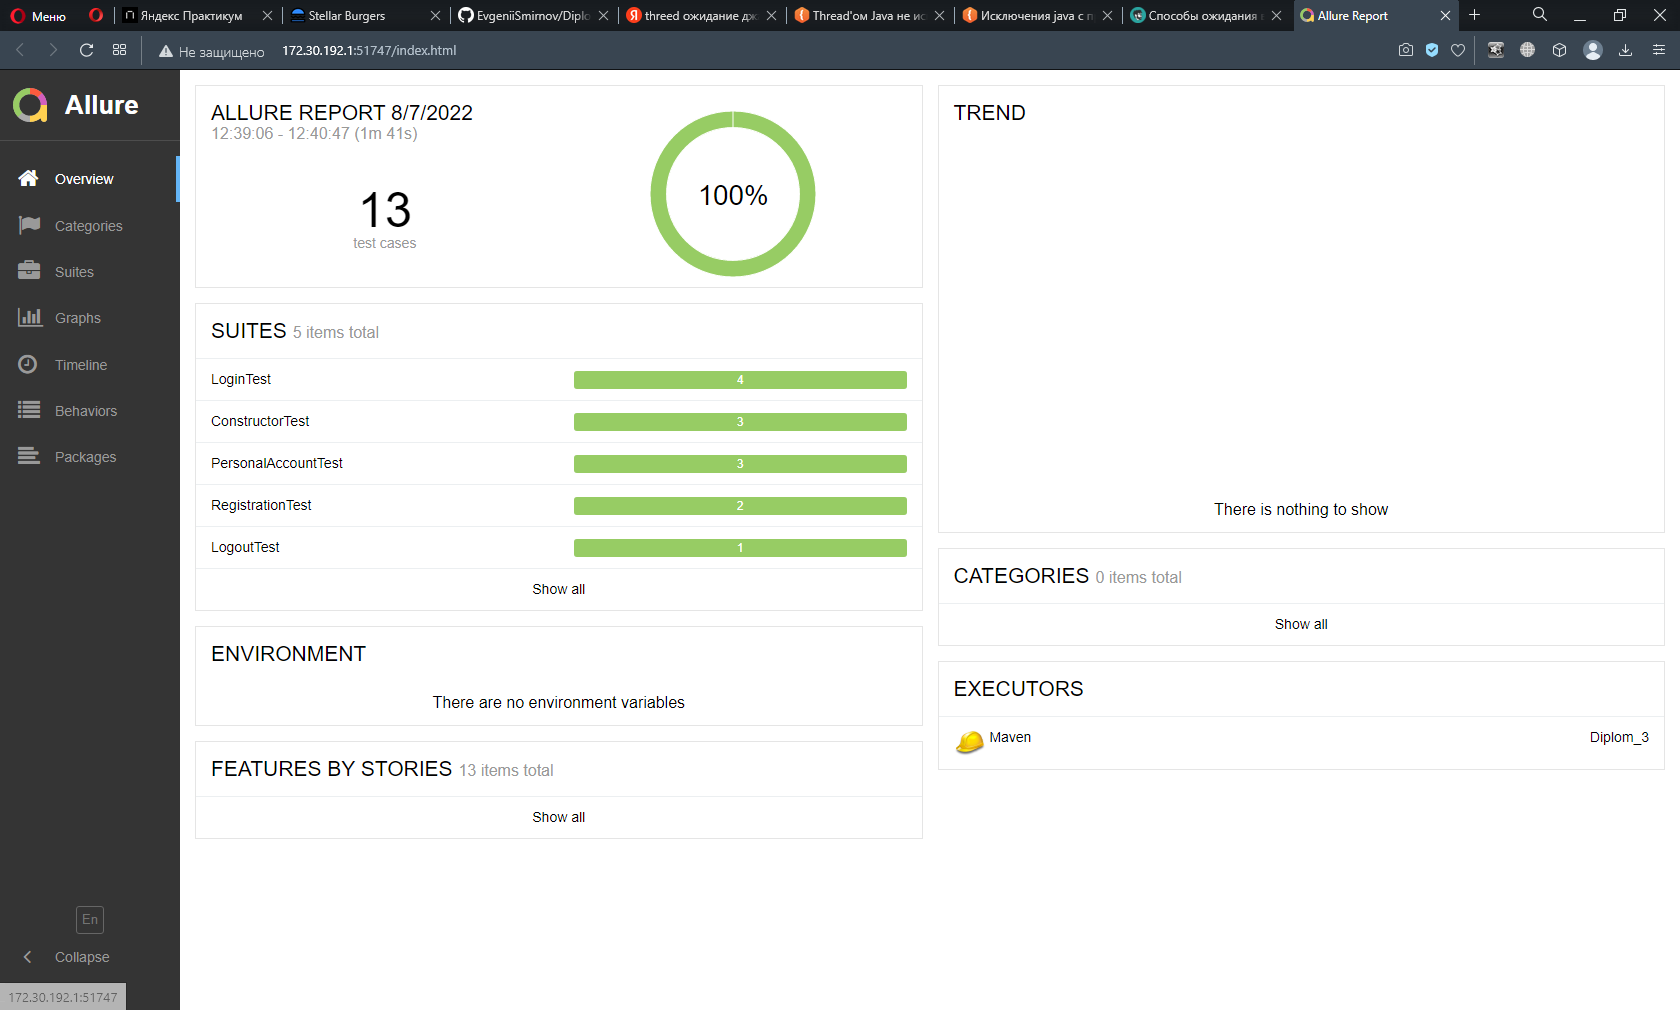
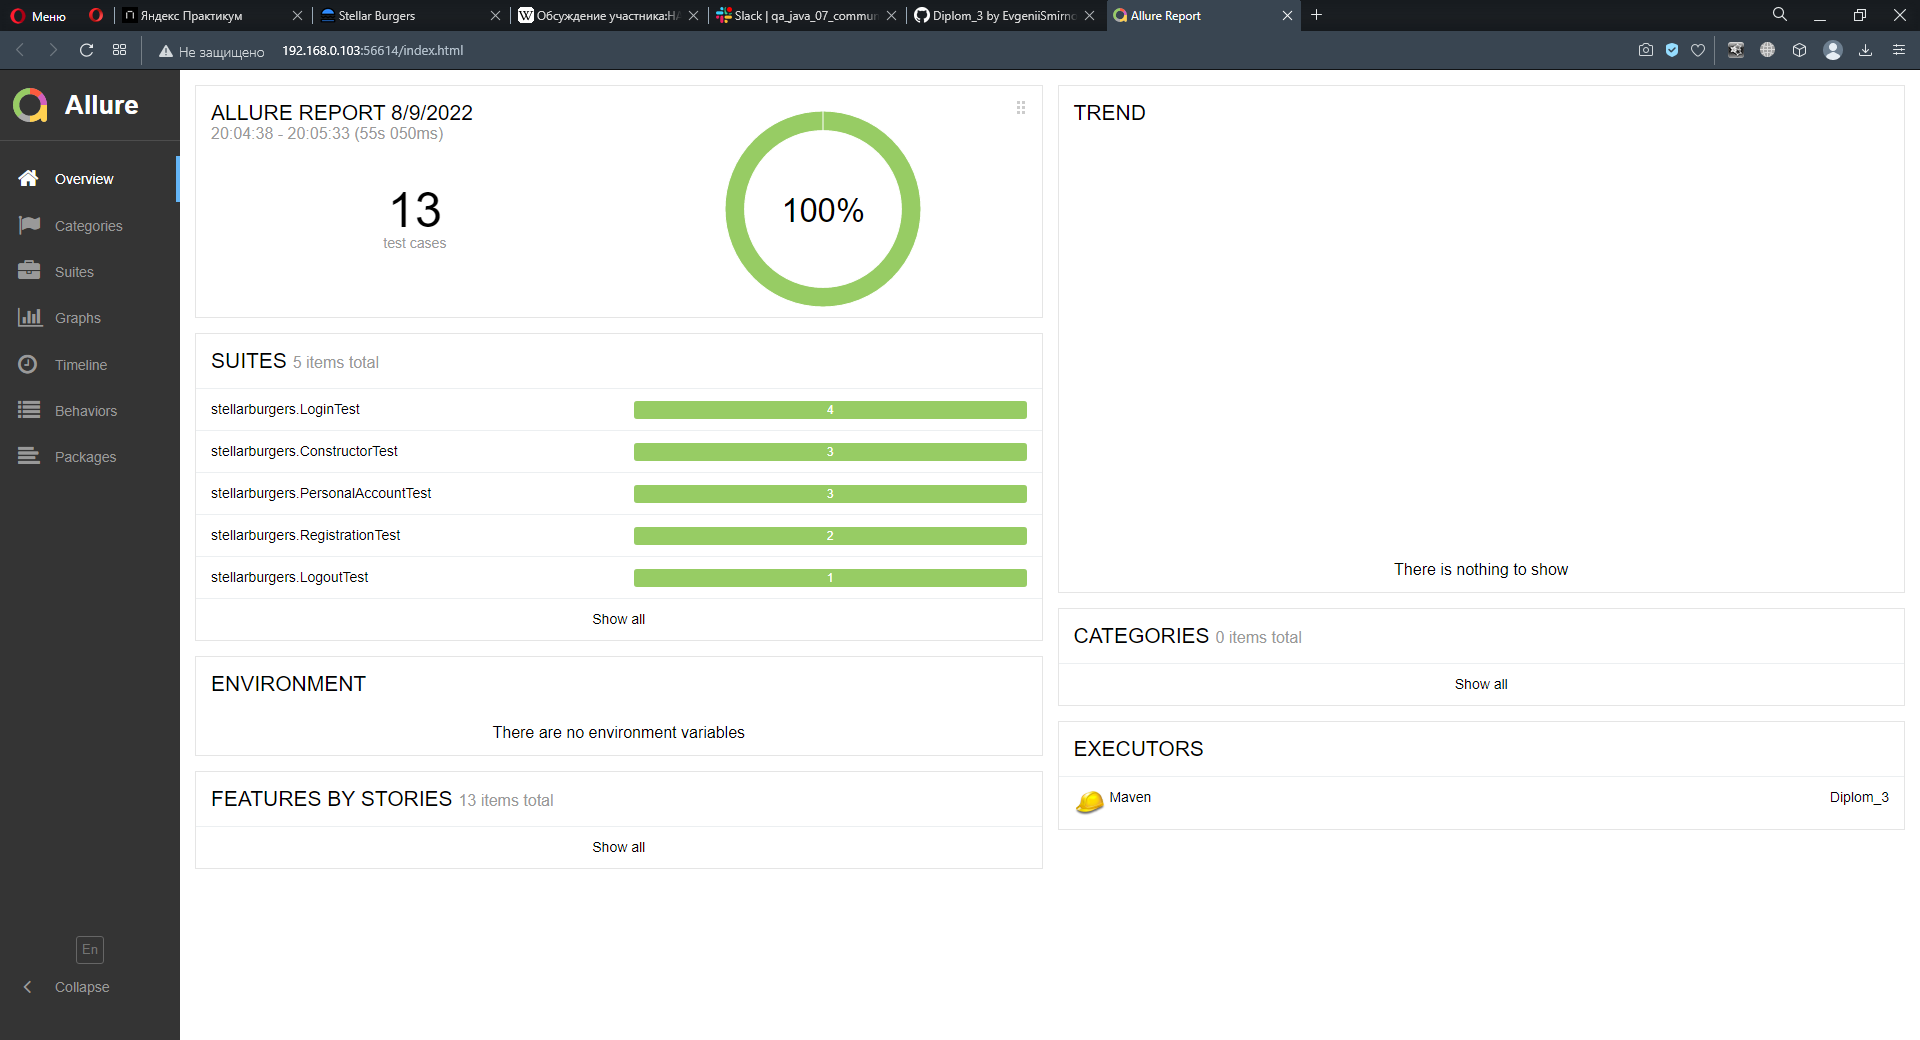
fix

diff --git a/src/main/java/stellarburgers/MainPage.java b/src/main/java/stellarburgers/MainPage.java
@@ -14,34 +14,45 @@ public class MainPage extends HeaderPage {
 
     // кнопка 'Войти в аккаунт'
     @FindBy(how = How.XPATH, using = ".//button[text()='Войти в аккаунт']")
-    public static SelenideElement accountButton;
+    private SelenideElement accountButton;
+
+    // кнопка 'Оформить заказ'
+    @FindBy(how = How.XPATH, using = ".//button[text()='Оформить заказ']")
+    private SelenideElement makeOrderButton;
+
+    // текст в разделе 'Булки'
+    @FindBy(how = How.XPATH, using = ".//span[text()='Булки']")
+    private SelenideElement bunText;
+
+    // раздел 'Булки'
+    @FindBy(how = How.XPATH, using = ".//span[text()='Булки']/..")
+    private SelenideElement bunsTab;
+
+    // текст в разделе 'Соусы'
+    @FindBy(how = How.XPATH, using = ".//span[text()='Соусы']")
+    private SelenideElement sauceText;
+
+    // раздел 'Соусы'
+    @FindBy(how = How.XPATH, using = ".//span[text()='Соусы']/..")
+    private SelenideElement sauceTab;
+
+    // текст в разделе 'Начинки'
+    @FindBy(how = How.XPATH, using = ".//span[text()='Начинки']")
+    private SelenideElement fillingsText;
+
+    // раздел 'Начинки'
+    @FindBy(how = How.XPATH, using = ".//span[text()='Начинки']/..")
+    private SelenideElement fillingsTab;
 
     @Step("Кликаем кнопку 'Войти в аккаунт'")
     public void clickAccountButton() {
         accountButton.click();
     }
 
-    // кнопка 'Оформить заказ'
-    @FindBy(how = How.XPATH, using = ".//button[text()='Оформить заказ']")
-    public static SelenideElement makeOrderButton;
-
     @Step("Проверяем видимость кнопки 'Оформить заказ'")
     public boolean makeOrderButtonCheck() {
         return makeOrderButton.shouldBe(visible).isDisplayed();
     }
-
-    @Step("Кликаем кнопку 'Оформить заказ'")
-    public void clickMakeOrderButton() {
-        makeOrderButton.click();
-    }
-
-    // текст в разделе 'Булки'
-    @FindBy(how = How.XPATH, using = ".//span[text()='Булки']")
-    public static SelenideElement bunText;
-
-    // раздел 'Булки'
-    @FindBy(how = How.XPATH, using = ".//span[text()='Булки']/..")
-    public static SelenideElement bunsTab;
 
     @Step("Кликаем на раздел 'Булки'")
     public void clickBunsTab() {
@@ -53,14 +64,6 @@ public class MainPage extends HeaderPage {
         bunsTab.shouldHave(cssClass("tab_tab_type_current__2BEPc"));
     }
 
-    // текст в разделе 'Соусы'
-    @FindBy(how = How.XPATH, using = ".//span[text()='Соусы']")
-    public static SelenideElement sauceText;
-
-    // раздел 'Соусы'
-    @FindBy(how = How.XPATH, using = ".//span[text()='Соусы']/..")
-    public static SelenideElement sauceTab;
-
     @Step("Кликаем на раздел 'Соусы'")
     public void clickSauceTab() {
         sauceText.click();
@@ -70,14 +73,6 @@ public class MainPage extends HeaderPage {
     public void sauceTabSelectedCheck() {
         sauceTab.shouldHave(cssClass("tab_tab_type_current__2BEPc"));
     }
-
-    // текст в разделе 'Начинки'
-    @FindBy(how = How.XPATH, using = ".//span[text()='Начинки']")
-    public static SelenideElement fillingsText;
-
-    // раздел 'Начинки'
-    @FindBy(how = How.XPATH, using = ".//span[text()='Начинки']/..")
-    public static SelenideElement fillingsTab;
 
     @Step("Кликаем на раздел 'Начинки'")
     public void clickFillingsTab() {

diff --git a/src/main/java/stellarburgers/LoginPage.java b/src/main/java/stellarburgers/LoginPage.java
@@ -11,15 +11,23 @@ public class LoginPage extends HeaderPage {
 
     // поле ввода email
     @FindBy(how = How.XPATH, using = ".//input[@name='name']")
-    public static SelenideElement fieldEmail;
+    private SelenideElement fieldEmail;
 
     // поле ввода пароля
     @FindBy(how = How.XPATH, using = ".//input[@name='Пароль']")
-    public static SelenideElement fieldPassword;
+    private SelenideElement fieldPassword;
 
     // кнопка 'Войти'
     @FindBy(how = How.XPATH, using = ".//button[text()='Войти']")
-    public static SelenideElement enterButton;
+    private SelenideElement enterButton;
+
+    // ссылка 'Зарегистрироваться'
+    @FindBy(how = How.XPATH, using = ".//a[text()='Зарегистрироваться']")
+    private SelenideElement registrationLink;
+
+    // ссылка 'Восстановить пароль'
+    @FindBy(how = How.XPATH, using = ".//a[text()='Восстановить пароль']")
+    private SelenideElement passRecoveryLink;
 
     @Step("Проверяем видимость кнопки 'Войти' на странице авторизации")
     public boolean enterButtonCheck() {
@@ -33,18 +41,10 @@ public class LoginPage extends HeaderPage {
         enterButton.click();
     }
 
-    // ссылка 'Зарегистрироваться'
-    @FindBy(how = How.XPATH, using = ".//a[text()='Зарегистрироваться']")
-    public static SelenideElement registrationLink;
-
     @Step("Кликаем ссылку 'Зарегистрироваться' на странице авторизации")
     public void clickRegistrationLink() {
         registrationLink.click();
     }
-
-    // ссылка 'Восстановить пароль'
-    @FindBy(how = How.XPATH, using = ".//a[text()='Восстановить пароль']")
-    public static SelenideElement passRecoveryLink;
 
     @Step("Кликаем ссылку 'Восстановить пароль' на странице авторизации")
     public void clickPassRecoveryLink() {

diff --git a/src/main/java/stellarburgers/RegisterPage.java b/src/main/java/stellarburgers/RegisterPage.java
@@ -10,15 +10,23 @@ public class RegisterPage extends HeaderPage {
 
     // поля Имя и email
     @FindBy(how = How.XPATH, using = ".//input[@name='name']")
-    public static ElementsCollection nameAndEmailFields;
+    private ElementsCollection nameAndEmailFields;
 
     // поле ввода пароля
     @FindBy(how = How.XPATH, using = ".//input[@name='Пароль']")
-    public static SelenideElement fieldPassword;
+    private SelenideElement fieldPassword;
 
     // кнопка 'Зарегистрироваться'
     @FindBy(how = How.XPATH, using = ".//button[text()='Зарегистрироваться']")
-    public static SelenideElement registrationButton;
+    private SelenideElement registrationButton;
+
+    // уведомление 'Некорректный пароль'
+    @FindBy(how = How.XPATH, using = ".//p[text()='Некорректный пароль']")
+    private SelenideElement errorPasswordNote;
+
+    // кнопка 'Войти'
+    @FindBy(how = How.XPATH, using = ".//a[text()='Войти']")
+    private SelenideElement loginButton;
 
     @Step("Регистрация пользователя")
     public void registration(String name, String email, String password) {
@@ -28,18 +36,10 @@ public class RegisterPage extends HeaderPage {
         registrationButton.click();
     }
 
-    // уведомление 'Некорректный пароль'
-    @FindBy(how = How.XPATH, using = ".//p[text()='Некорректный пароль']")
-    public static SelenideElement errorPasswordNote;
-
     @Step("Проверяем уведомление 'Некорректный пароль'")
     public boolean badPassNoteCheck() {
         return errorPasswordNote.isDisplayed();
     }
-
-    // кнопка 'Войти'
-    @FindBy(how = How.XPATH, using = ".//a[text()='Войти']")
-    public static SelenideElement loginButton;
 
     @Step("Кликаем кнопку 'Войти' на странице регистрации")
     public void clickLoginButton() {

diff --git a/src/test/java/stellarburgers/ConstructorTest.java b/src/test/java/stellarburgers/ConstructorTest.java
@@ -1,8 +1,9 @@
+package stellarburgers;
+
 import com.codeborne.selenide.Selenide;
 import jdk.jfr.Description;
 import org.junit.After;
 import org.junit.Test;
-import stellarburgers.MainPage;
 
 import static com.codeborne.selenide.Selenide.open;
 
@@ -17,31 +18,25 @@ public class ConstructorTest {
 
     @Test
     @Description("Позитивная проверка. Проверяем переход к разделу 'Булки'")
-    public void activationBunsTabTest() throws InterruptedException {
+    public void activationBunsTabTest() {
         mainPage.clickFillingsTab();
-        Thread.sleep(3000);
         mainPage.clickBunsTab();
-        Thread.sleep(3000);
         mainPage.bunsTabSelectedCheck();
     }
 
     @Test
     @Description("Позитивная проверка. Проверяем переход к разделу 'Соусы'")
-    public void activationSouseTabTest() throws InterruptedException {
+    public void activationSouseTabTest() {
         mainPage.clickFillingsTab();
-        Thread.sleep(3000);
         mainPage.clickSauceTab();
-        Thread.sleep(3000);
         mainPage.sauceTabSelectedCheck();
     }
 
     @Test
     @Description("Позитивная проверка. Проверяем переход к разделу 'Соусы'")
-    public void activationFillingsTabTest() throws InterruptedException {
+    public void activationFillingsTabTest() {
         mainPage.clickSauceTab();
-        Thread.sleep(3000);
         mainPage.clickFillingsTab();
-        Thread.sleep(3000);
         mainPage.fillingsTabSelectedCheck();
     }
 }

diff --git a/src/main/java/stellarburgers/HeaderPage.java b/src/main/java/stellarburgers/HeaderPage.java
@@ -9,25 +9,25 @@ public class HeaderPage {
 
     // кнопка хэдера 'Личный кабинет'
     @FindBy(how = How.XPATH, using = ".//a[@href='/account']")
-    public static SelenideElement accountButtonHeader;
+    private SelenideElement accountButtonHeader;
+
+    // кнопка 'Конструктор'
+    @FindBy(how = How.XPATH, using = ".//p[text()='Конструктор']")
+    private SelenideElement constructorButton;
+
+    // лого
+    @FindBy(how = How.CLASS_NAME, using = "AppHeader_header__logo__2D0X2")
+    private SelenideElement stellarBurgersLogo;
 
     @Step("Кликаем кнопку хэдера 'Личный кабинет'")
     public void clickAccountButtonHeader() {
         accountButtonHeader.click();
     }
 
-    // кнопка 'Конструктор'
-    @FindBy(how = How.XPATH, using = ".//p[text()='Конструктор']")
-    public static SelenideElement constructorButton;
-
     @Step("Кликаем кнопку 'Конструктор'")
     public void clickConstructorButton() {
         constructorButton.click();
     }
-
-    // лого
-    @FindBy(how = How.CLASS_NAME, using = "AppHeader_header__logo__2D0X2")
-    public static SelenideElement stellarBurgersLogo;
 
     @Step("Кликаем лого Stellar Burgers")
     public void clickStellarBurgersLogo() {

diff --git a/src/main/java/stellarburgers/AccountPage.java b/src/main/java/stellarburgers/AccountPage.java
@@ -11,16 +11,16 @@ public class AccountPage extends HeaderPage {
 
     // текст с подсказкой
     @FindBy(how = How.XPATH, using = ".//p[text()='В этом разделе вы можете изменить свои персональные данные']")
-    public static SelenideElement explainText;
+    private SelenideElement explainText;
+
+    // кнопка 'Выход'
+    @FindBy(how = How.XPATH, using = ".//button[text()='Выход']")
+    private SelenideElement exitButton;
 
     @Step("Проверяем видимость подсказки")
     public boolean explainTextCheck() {
         return explainText.shouldBe(visible).isDisplayed();
     }
-
-    // кнопка 'Выход'
-    @FindBy(how = How.XPATH, using = ".//button[text()='Выход']")
-    public static SelenideElement exitButton;
 
     @Step("Кликаем кнопку 'Выход'")
     public void clickExitButton() {

diff --git a/src/test/java/stellarburgers/PersonalAccountTest.java b/src/test/java/stellarburgers/PersonalAccountTest.java
@@ -1,12 +1,11 @@
+package stellarburgers;
+
 import com.codeborne.selenide.Configuration;
 import com.codeborne.selenide.Selenide;
 import io.qameta.allure.Description;
 import org.junit.After;
 import org.junit.Before;
 import org.junit.Test;
-import stellarburgers.AccountPage;
-import stellarburgers.LoginPage;
-import stellarburgers.MainPage;
 
 import static com.codeborne.selenide.Selenide.open;
 import static com.codeborne.selenide.Selenide.page;
@@ -16,7 +15,6 @@ public class PersonalAccountTest {
 
     private static final String BAD_AUTH_MESSAGE = "Ошибка авторизации";
     private static final String CONSTRUCTOR_CANT_OPEN_MESSAGE = "Не получилось открыть констрктор";
-
     private static final String email = "fatmorty007@gmail.com";
     private static final String password = "123123";
 

diff --git a/src/test/java/stellarburgers/LoginTest.java b/src/test/java/stellarburgers/LoginTest.java
@@ -1,13 +1,11 @@
+package stellarburgers;
+
 import com.codeborne.selenide.Configuration;
 import com.codeborne.selenide.Selenide;
 import jdk.jfr.Description;
 import org.junit.After;
 import org.junit.Before;
 import org.junit.Test;
-import stellarburgers.LoginPage;
-import stellarburgers.MainPage;
-import stellarburgers.PassRecoveryPage;
-import stellarburgers.RegisterPage;
 
 import static com.codeborne.selenide.Selenide.open;
 import static com.codeborne.selenide.Selenide.page;
@@ -16,7 +14,6 @@ import static org.junit.Assert.assertTrue;
 public class LoginTest {
 
     private static final String BAD_AUTH_MESSAGE = "Ошибка авторизации";
-
     private static final String email = "fatmorty007@gmail.com";
     private static final String password = "123123";
 

diff --git a/src/test/java/stellarburgers/LogoutTest.java b/src/test/java/stellarburgers/LogoutTest.java
@@ -1,10 +1,9 @@
+package stellarburgers;
+
 import com.codeborne.selenide.Configuration;
 import jdk.jfr.Description;
 import org.junit.Before;
 import org.junit.Test;
-import stellarburgers.AccountPage;
-import stellarburgers.LoginPage;
-import stellarburgers.MainPage;
 
 import static com.codeborne.selenide.Selenide.open;
 import static com.codeborne.selenide.Selenide.page;
@@ -13,7 +12,6 @@ import static org.junit.Assert.assertTrue;
 public class LogoutTest {
 
     private static final String BAD_LOGOUT_MESSAGE = "Не получилось выйти из личного кабинета";
-
     private static final String email = "fatmorty007@gmail.com";
     private static final String password = "123123";
 

diff --git a/src/test/java/stellarburgers/RegistrationTest.java b/src/test/java/stellarburgers/RegistrationTest.java
@@ -1,3 +1,5 @@
+package stellarburgers;
+
 import com.codeborne.selenide.Configuration;
 import com.codeborne.selenide.Selenide;
 import io.qameta.allure.Description;
@@ -5,9 +7,6 @@ import org.apache.commons.lang3.RandomStringUtils;
 import org.junit.After;
 import org.junit.Before;
 import org.junit.Test;
-import stellarburgers.LoginPage;
-import stellarburgers.MainPage;
-import stellarburgers.RegisterPage;
 
 import static com.codeborne.selenide.Selenide.open;
 import static com.codeborne.selenide.Selenide.page;

diff --git a/src/main/java/stellarburgers/PassRecoveryPage.java b/src/main/java/stellarburgers/PassRecoveryPage.java
@@ -9,7 +9,7 @@ public class PassRecoveryPage extends HeaderPage {
 
     // ссылка 'Войти'
     @FindBy(how = How.XPATH, using = ".//a[text()='Войти']")
-    public static SelenideElement loginLink;
+    private SelenideElement loginLink;
 
     @Step("Кликаем ссылку 'Войти' на странице восстановления пароля")
     public void clickLoginLink() {
